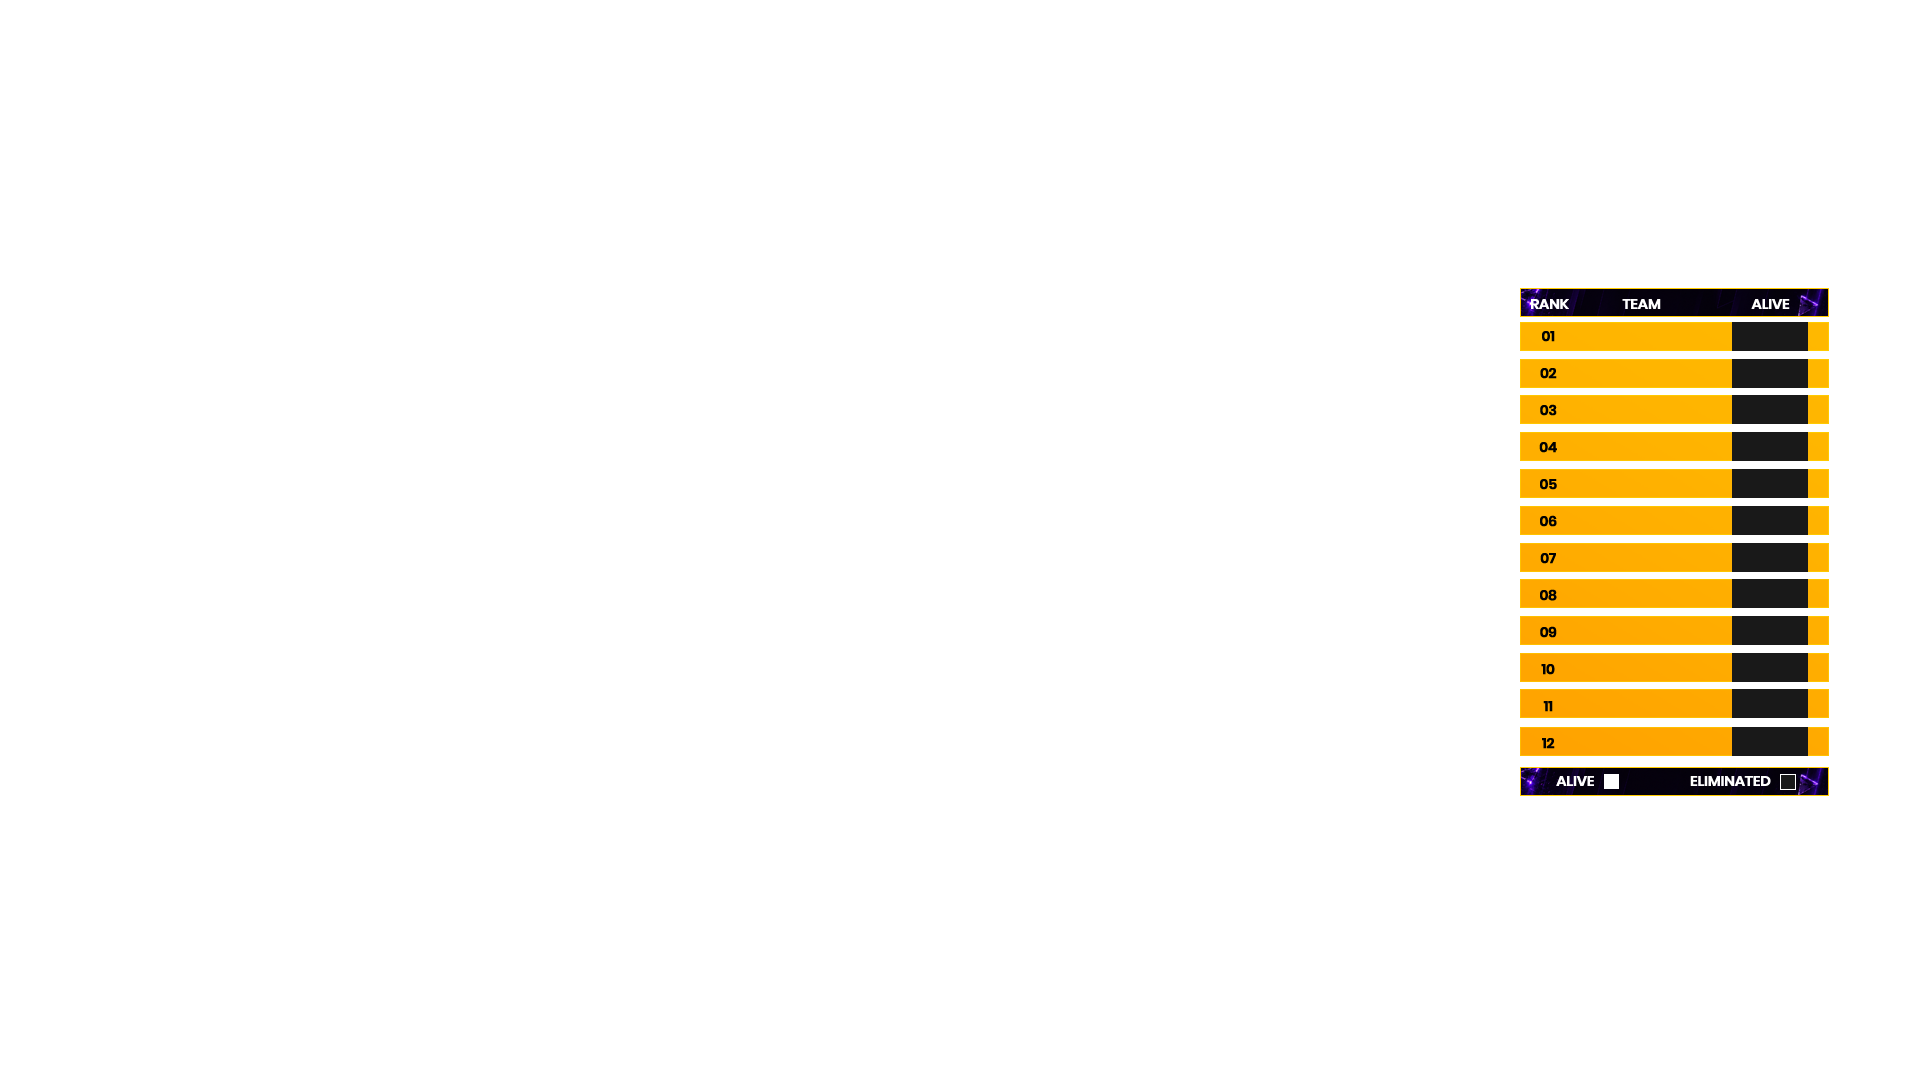
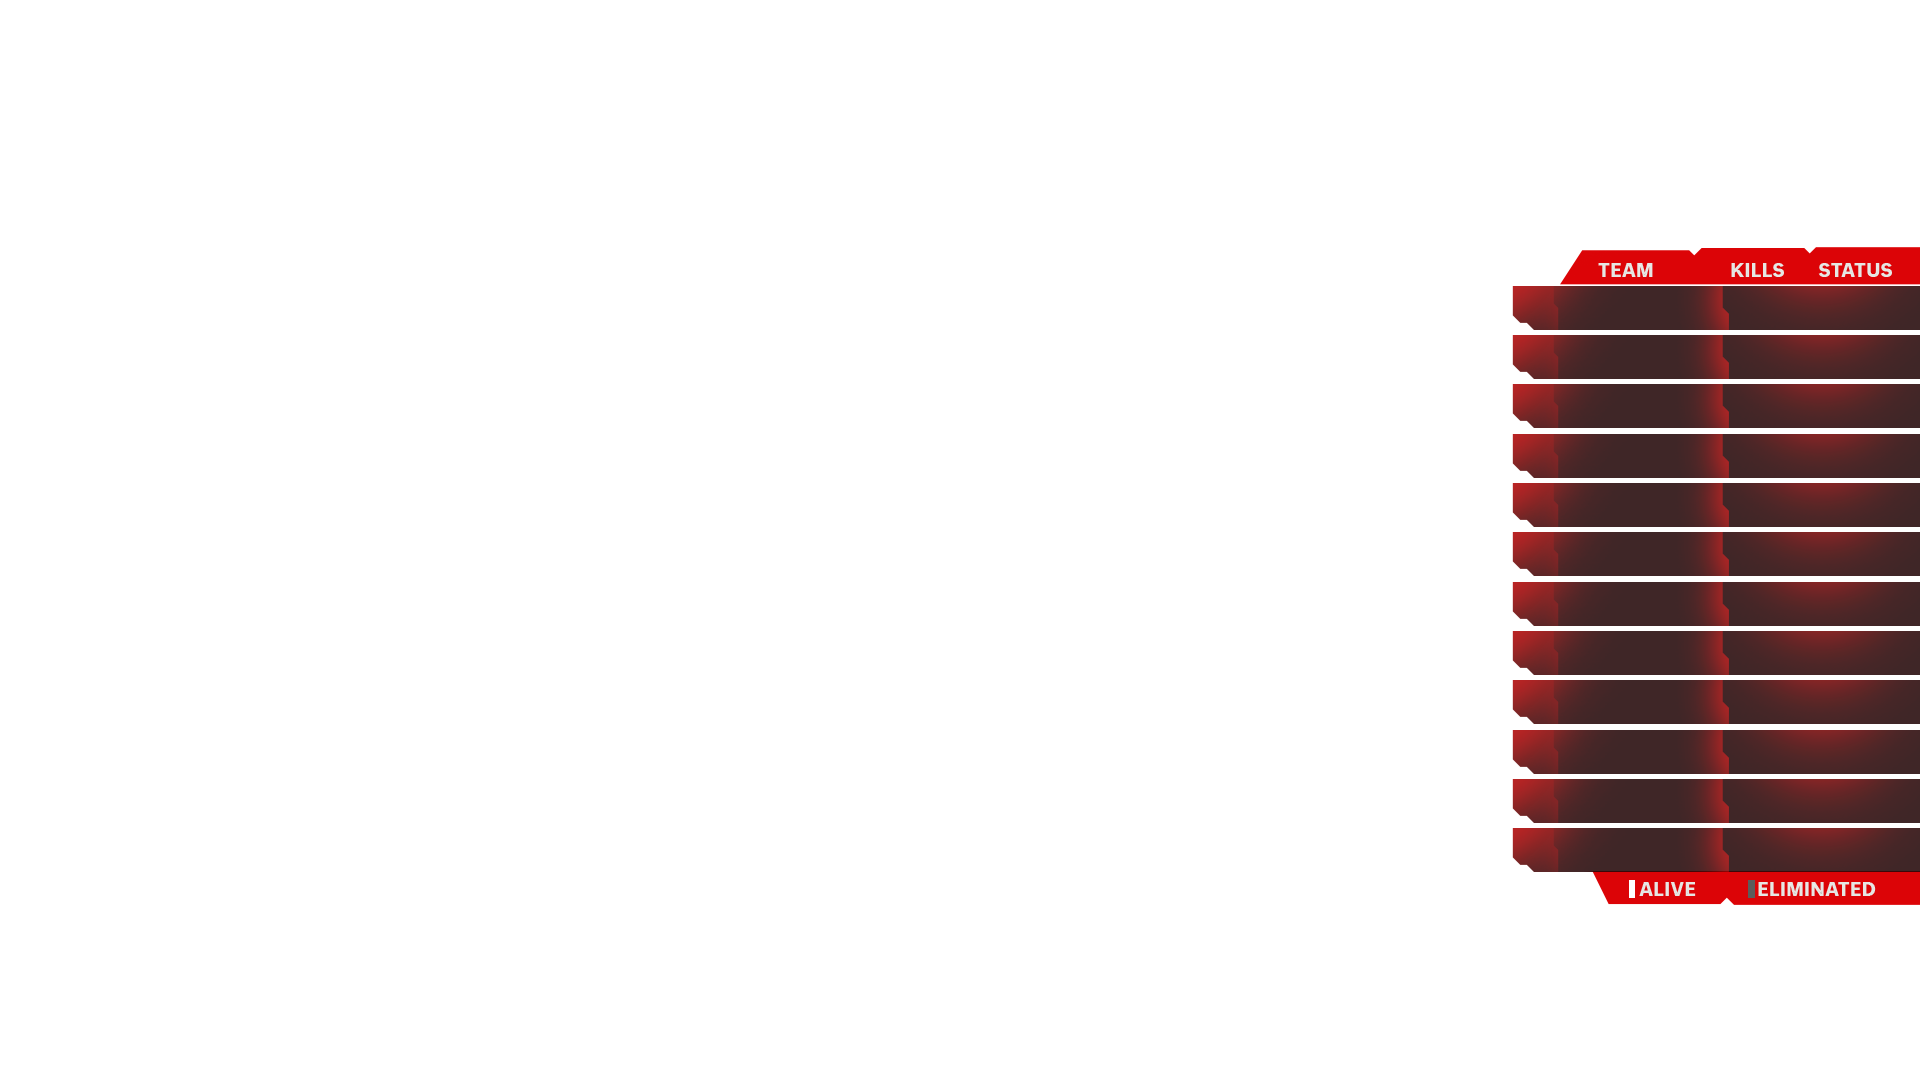
Free Fire: rebuild Alive Status on the new TEAM/KILLS/STATUS artwork
- Drop in the new ALIVE STATUS.png and re-measure every position from
  the PNG's own pixels rather than eyeballing: table at x 1512..1920,
  twelve 44px rows on a ~49px pitch, columns under the artwork's own
  TEAM / KILLS / STATUS headers.
- STATUS keeps the existing pip artwork (Dead.png / 1..4_alive.png)
  chosen by alive count, re-fitted to this design's narrower slot --
  the content-box crop is re-derived for the new 110x32 slot the same
  way the old 76x29 one was.
- Eliminated teams now SINK below every alive team instead of holding
  their slot, ordered by the placement link_live_teams() already
  computes, so a team out early ends up lowest and one just wiped sits
  right under the alive block -- the thing the game's own table
  doesn't do. Rows transition to their new slot rather than snapping,
  and a row flashes once on the alive->eliminated transition (tracked
  by comparing against the previous render, so it fires on the change
  and not on every sync).
- Team name/kills use Gotham per the graphic package, falling back to
  Arial; no @font-face, so it needs Gotham installed on the machine
  running the browser source (drop the file into assets/fonts and this
  can be bundled properly instead).
- Add four Graphic Fixing pages (Alive: Logo / Name / Kills / Status)
  so each column can be nudged independently, applied by the overlay
  per element class. The logo itself comes from the pre-event roster
  upload, same lookup the other graphics use.
[…]

Changed region(s): [[0.7812, 0.2139, 1.0, 0.8556]]

diff --git a/overlay/freefire_alive_status.html b/overlay/freefire_alive_status.html
@@ -7,34 +7,35 @@
   /* The 12-team live side table.
      ---------------------------------------------------------------
      Every number on this graphic comes from the game client's own
-     debugger log, not from OCR of the in-game table: team names from
-     OnTeamScoreInited, the running kill count from OnTeamScoreChanged,
-     deaths and revives from the kill/revive lines, and squad wipes from
-     PCInGameFlagManager -- which lands in the same millisecond as the
-     squad's last death. See freefire_engine.py's link_live_teams().
+     debugger log, not from OCR of the in-game table (or, once
+     calibrated, the alive grid's own colour/digit read -- see
+     link_live_teams()/apply_alive_grid_identities() in
+     freefire_engine.py; both feed liveOps.sidetableRows in the same
+     shape, so this page doesn't care which one supplied a given row).
 
-     Geometry is measured from the artwork (assets/freefire/<event>/
-     ALIVE STATUS.png), not eyeballed. At 1920x1080 the table occupies
-     x 1520..1828, with a header band, twelve 29px-tall rows on a ~36.8px
-     pitch, and a legend footer. Row tops are listed exactly as measured
-     rather than computed from a pitch, because the artwork's spacing is
-     not perfectly uniform and drift would show by row twelve. */
+     Geometry below is measured from the CURRENT artwork
+     (assets/freefire/<event>/ALIVE STATUS.png, the TEAM/KILLS/STATUS
+     design), not eyeballed -- sampled directly from the PNG's own
+     pixels. At 1920x1080 the table occupies x 1512..1920, a header
+     band, twelve 44px-tall rows on a ~49.3px pitch, and a legend
+     footer explaining the STATUS icon (this is the SAME icon set the
+     old design used -- Dead.png / 1_alive.png.. 4_alive.png -- just
+     moved to sit under the STATUS column instead of a dedicated ALIVE
+     column). Row tops are listed exactly as measured rather than
+     computed from a pitch, matching the old design's own reasoning:
+     the artwork's spacing is not perfectly uniform and drift would
+     show by row twelve.
 
-  @font-face {
-    font-family: 'TT Supermolot Neue Trial';
-    src: url('assets/fonts/TTSupermolotNeueTrial-ExtraBold.ttf') format('truetype');
-    font-weight: 800; font-style: normal;
-  }
-  @font-face {
-    font-family: 'TT Supermolot Neue Trial';
-    src: url('assets/fonts/TTSupermolotNeueTrial-Black.ttf') format('truetype');
-    font-weight: 900; font-style: normal;
-  }
+     Font is Gotham, per the graphic package -- not bundled here (no
+     @font-face): it's expected to already be installed on the
+     machine running the browser source, the same way a licensed font
+     normally reaches a design tool without redistributing the file.
+     Falls back to Arial if it isn't. */
 
   html, body {
     margin: 0; padding: 0; background: transparent; overflow: hidden;
     width: 1920px; height: 1080px;
-    font-family: 'TT Supermolot Neue Trial', Arial, sans-serif;
+    font-family: 'Gotham', Arial, sans-serif;
   }
 
   #stage { position: absolute; inset: 0; display: none; }
@@ -42,82 +43,72 @@
 
   #backdrop { position: absolute; inset: 0; width: 1920px; height: 1080px; }
 
-  .row { position: absolute; height: 29px; }
+  .row { position: absolute; height: 44px; left: 1512px; width: 408px; }
 
-  /* No rank element: 01..12 are already printed in the artwork, so a row
-     is ranked by which slot it occupies, not by anything drawn here.
-     (Drawing it too produced "0101" on the first pass.) */
+  /* No rank element: 01..12 are already printed in the artwork, so a
+     row is ranked by which slot it occupies, not by anything drawn
+     here. */
   .logo {
-    position: absolute; left: 1554px; width: 30px; height: 29px;
+    position: absolute; left: 8px; top: 0; width: 40px; height: 44px;
     display: flex; align-items: center; justify-content: center;
   }
-  .logo img { max-width: 26px; max-height: 25px; object-fit: contain; }
-  /* Narrowed from the full 142px gap up to the alive bars to make room
-     for a KILLS number -- the artwork itself has no column for this
-     (RANK / TEAM / ALIVE only), so it's fitted into the existing row
-     rather than waiting on updated art. */
+  .logo img { max-width: 34px; max-height: 34px; object-fit: contain; }
+
   .name {
-    position: absolute; left: 1588px; width: 106px; height: 29px;
+    position: absolute; left: 54px; top: 0; width: 150px; height: 44px;
     display: flex; align-items: center;
-    color: #1a1206; font-weight: 900; font-size: 15px; letter-spacing: 0.2px;
+    color: #f2e9e6; font-weight: 700; font-size: 17px; letter-spacing: 0.2px;
     text-transform: uppercase; white-space: nowrap; overflow: hidden;
   }
   .kills {
-    position: absolute; left: 1694px; width: 36px; height: 29px;
+    position: absolute; left: 208px; top: 0; width: 74px; height: 44px;
     display: flex; align-items: center; justify-content: center;
-    color: #1a1206; font-weight: 900; font-size: 15px;
+    color: #f2e9e6; font-weight: 800; font-size: 18px;
     font-variant-numeric: tabular-nums;
   }
-  /* One static label per column, not per row -- the header band the
-     artwork bakes in only says RANK / TEAM / ALIVE, so this is drawn to
-     match its style (white, bold, small) at the same x as the numbers
-     below it. */
-  #kills-header {
-    position: absolute; left: 1694px; top: 296px; width: 36px; height: 14px;
-    display: flex; align-items: center; justify-content: center;
-    color: #ffffff; font-weight: 800; font-size: 11px; letter-spacing: 0.5px;
-  }
 
-  /* The alive indicator is the supplied artwork, not bars drawn here --
-     0 alive uses Dead.png, 1..4 use N_alive.png. All five share one
-     content box (x 11..487, y 140..359 of a 500x500 canvas), so a single
-     crop maps any of them into the 76x29 dark slot: scale the 220px-tall
-     content to 29px (factor 0.13182), then offset so it sits centred. */
-  .alive {
-    position: absolute; left: 1732px; width: 76px; height: 29px;
+  /* The STATUS pip -- SAME artwork the old ALIVE column used
+     (Dead.png / N_alive.png), just re-fitted into this design's
+     narrower slot. All five share one content box (x 11..488,
+     y 140..360 of a 500x500 canvas), so one crop maps any of them in:
+     scale that 477x220 content box independently per axis to fill the
+     slot, then shift so its top-left lands at the slot's origin --
+     same technique the old design used, re-derived for this slot's
+     own size (110x32 here, was 76x29). */
+  .status-pip {
+    position: absolute; left: 292px; top: 6px; width: 110px; height: 32px;
     background-repeat: no-repeat;
-    /* Maps the artwork's content box onto the dark slot with a 4px inset,
-       stretching each axis independently -- the standalone indicator is
-       477x220 (2.17:1) while the slot is 76x29 (2.62:1), and preserving
-       the aspect would leave the bars floating in the middle of the slot
-       instead of filling it the way the reference table does. They are
-       plain rectangles, so the stretch is invisible.
-         scaleX = 68/477, scaleY = 21/220 -> 500px canvas becomes
-         71.3 x 47.7, shifted so content x11,y140 lands at the inset. */
-    background-size: 71.28px 47.73px;
-    background-position: 2.43px -9.36px;
-  }
-
-  /* Champion Rush emblem, sitting OUTSIDE the table to the left of the
-     team logo so it never crowds the name. Artwork comes from the selected
-     package as champion_rush.png; a package without one simply shows
-     nothing there. */
-  .cr-badge{
-    position: absolute; left: 1486px; width: 28px; height: 29px;
-    object-fit: contain;
+    background-size: 115.3px 72.75px;
+    background-position: -2.54px -20.36px;
   }
 
   /* A wiped squad's whole row dims, so "who is still in" reads at a
-     glance rather than needing the four little bars to be counted. */
+     glance rather than needing the pip alone to carry it. */
   .row.out .name { opacity: 0.55; }
   .row.out .logo img { filter: grayscale(1); opacity: 0.5; }
+
+  /* Plays once, the moment a row flips from alive to eliminated --
+     NOT on every render, just that one transition. A quick bright
+     sweep across the row (not the pip alone) is what reads as "this
+     just happened" on a broadcast; the permanent dim above is what
+     shows afterwards. */
+  @keyframes ff-elim-flash {
+    0%   { box-shadow: inset 0 0 0 999px rgba(220, 4, 7, 0); }
+    15%  { box-shadow: inset 0 0 0 999px rgba(220, 4, 7, 0.55); }
+    100% { box-shadow: inset 0 0 0 999px rgba(220, 4, 7, 0); }
+  }
+  .row.just-eliminated { animation: ff-elim-flash 900ms ease-out; }
+
+  /* Rows slide to their new slot instead of snapping -- an eliminated
+     team sinking below the alive block should read as a movement, not
+     a cut. */
+  .row { transition: top 550ms ease; }
 </style>
 </head>
 <body>
 
 <div id="stage">
   <img id="backdrop" alt="">
-  <div id="kills-header">K</div>
   <div id="rows"></div>
 </div>
 
@@ -132,7 +123,7 @@ const WS_URL = _relay
   : "ws://localhost:8765?page=freefire_alive_status";
 
 // Measured from ALIVE STATUS.png -- see the note at the top.
-const ROW_TOPS = [322, 359, 395, 432, 469, 506, 543, 579, 616, 653, 689, 727];
+const ROW_TOPS = [286, 335, 384, 434, 483, 532, 582, 631, 680, 730, 779, 828];
 
 let ws;
 function connect(){
@@ -156,22 +147,35 @@ function escapeHtml(s){
   ));
 }
 
-/* Rank order is the event standings when there are any, so the column
-   means the same thing here as on the points table. Before game one
-   there are no standings, so it falls back to the order the client
-   listed the teams -- stable, and never leaves the table blank. */
+/* Alive teams sort first (by the event standings, same as before --
+   falls back to log order pre-game-one). Eliminated teams sink BELOW
+   every alive team, ordered by their own placement -- link_live_teams()
+   already computes this the moment a squad is wiped (bigger number =
+   worse = sinks further), so a team eliminated early ends up lowest and
+   one eliminated just now sits right under the alive block, exactly
+   the behaviour the game's own table doesn't have. A row from a source
+   that doesn't carry placement (the alive grid, or the OCR fallback)
+   just keeps its existing relative order among other eliminated rows
+   instead of guessing one. */
 function orderRows(rows, standings){
   const rank = new Map();
   (standings || []).forEach((s, i) => {
     if(s && s.teamName) rank.set(s.teamName.trim().toUpperCase(), i);
   });
-  return rows.slice().sort((a, b) => {
-    const ra = rank.has((a.teamName||"").trim().toUpperCase())
-      ? rank.get((a.teamName||"").trim().toUpperCase()) : 500;
-    const rb = rank.has((b.teamName||"").trim().toUpperCase())
-      ? rank.get((b.teamName||"").trim().toUpperCase()) : 500;
-    return ra - rb;
-  });
+  const aliveRank = (r) => {
+    const key = (r.teamName||"").trim().toUpperCase();
+    return rank.has(key) ? rank.get(key) : 500;
+  };
+  return rows.map((r, i) => ({ r, i })).sort((A, B) => {
+    const a = A.r, b = B.r;
+    const aOut = !!a.eliminated, bOut = !!b.eliminated;
+    if(aOut !== bOut) return aOut ? 1 : -1;
+    if(!aOut) return aliveRank(a) - aliveRank(b);
+    if(a.placement != null && b.placement != null) return a.placement - b.placement;
+    if(a.placement != null) return -1;
+    if(b.placement != null) return 1;
+    return A.i - B.i;   // stable: keep original order when neither has one
+  }).map(x => x.r);
 }
 
 function logoFor(teamName, roster){
@@ -181,6 +185,11 @@ function logoFor(teamName, roster){
   return team || null;
 }
 
+// Team name -> was it eliminated on the LAST render? Used only to catch
+// the alive-to-eliminated transition for the flash animation -- see
+// apply() below. Deliberately module-level (survives across calls),
+// not per-row state, since a row's DOM element is rebuilt every render.
+let previouslyEliminated = new Set();
 let lastKey = "";
 
 function apply(state){
@@ -204,40 +213,69 @@ function apply(state){
     : new Set();
 
   const key = base + "|" + rows.map(r =>
-    [r.teamName, r.aliveCount, r.eliminated, r.elims,
+    [r.teamName, r.aliveCount, r.eliminated, r.elims, r.placement,
      active.has((r.teamName || "").trim().toUpperCase())].join("~")).join("|");
   if(key === lastKey) return;
   lastKey = key;
 
+  const nowEliminated = new Set();
   const html = rows.slice(0, 12).map((row, i) => {
     const team = logoFor(row.teamName, state.roster);
     const label = (team && team.shortName) || row.teamName || "";
+    const nameKey = (row.teamName || "").trim().toUpperCase();
     // aliveCount is null when the squad could not be linked to the roster
     // (that link is what turns the client's squad number into a team).
-    // Showing the full four bars would be a confident lie, so an unknown
-    // count falls back to the empty indicator.
+    // Showing a full-alive pip would be a confident lie, so an unknown
+    // count falls back to the empty/dead indicator.
     const alive = row.eliminated ? 0
       : (row.aliveCount == null ? 0 : Math.max(0, Math.min(4, row.aliveCount)));
     const art = alive === 0 ? "Dead.png" : alive + "_alive.png";
     const logo = team && team.logo
       ? `<img src="${escapeHtml(team.logo)}" alt="">` : "";
-    const badge = active.has((row.teamName || "").trim().toUpperCase())
-      ? `<img class="cr-badge" src="${base}champion_rush.png" alt="">` : "";
     // elims is null once the match has ended (the running score gets
     // placement points folded in at that point and would read as an
     // inflated "kills" number), so a blank cell beats a confidently wrong
     // one -- same rule the rest of this codebase already follows.
     const kills = row.elims == null ? "" : row.elims;
+    if(row.eliminated) nowEliminated.add(nameKey);
+    const justNow = row.eliminated && !previouslyEliminated.has(nameKey);
     return `
-      <div class="row ${row.eliminated ? "out" : ""}" style="top:${ROW_TOPS[i]}px">
-        ${badge}
+      <div class="row ${row.eliminated ? "out" : ""} ${justNow ? "just-eliminated" : ""}" style="top:${ROW_TOPS[i]}px">
         <div class="logo">${logo}</div>
         <div class="name">${escapeHtml(label)}</div>
         <div class="kills">${kills}</div>
-        <div class="alive" style="background-image:url('${base}${art}')"></div>
+        <div class="status-pip" style="background-image:url('${base}${art}')"></div>
       </div>`;
   }).join("");
   document.getElementById("rows").innerHTML = html;
+  applyElementOverrides(state);
+  previouslyEliminated = nowEliminated;
+}
+
+/* Per-element nudges from the dashboard's Graphic Fixing tab (Alive:
+   Logo / Name / Kills / Status). Each is one {dx, dy, scale} applied on
+   top of the element's own CSS position -- every row shares the offset,
+   since the whole point is lining a COLUMN up with the artwork, not
+   moving one row independently. Same transform trick the scoreboard and
+   points table already use for their logo columns. */
+const OVERRIDE_TARGETS = {
+  aliveStatusLogo: ".logo",
+  aliveStatusName: ".name",
+  aliveStatusKills: ".kills",
+  aliveStatusPip: ".status-pip",
+};
+
+function applyElementOverrides(state){
+  const all = state.graphicOverrides || {};
+  Object.entries(OVERRIDE_TARGETS).forEach(([key, selector]) => {
+    const o = all[key] || {};
+    const dx = o.dx || 0, dy = o.dy || 0, scale = o.scale || 1;
+    if(!dx && !dy && scale === 1) return;
+    document.querySelectorAll("#rows " + selector).forEach(el => {
+      el.style.transform = `translate(${dx}px, ${dy}px) scale(${scale})`;
+      el.style.transformOrigin = "left center";
+    });
+  });
 }
 
 connect();

diff --git a/dashboard/dashboard.html b/dashboard/dashboard.html
@@ -2183,6 +2183,10 @@ Team Charlie
       <div class="row" style="gap:8px;margin-bottom:10px;">
         <button class="secondary" id="ffgfx_page_pointsTableLogo">Overall Points Table</button>
         <button class="secondary" id="ffgfx_page_scoreboardLogo">Match Scoreboard</button>
+        <button class="secondary" id="ffgfx_page_aliveStatusLogo">Alive: Logo</button>
+        <button class="secondary" id="ffgfx_page_aliveStatusName">Alive: Name</button>
+        <button class="secondary" id="ffgfx_page_aliveStatusKills">Alive: Kills</button>
+        <button class="secondary" id="ffgfx_page_aliveStatusPip">Alive: Status</button>
       </div>
       <div id="ffgfx_stage_wrap" style="position:relative;width:960px;height:540px;
            background:#000;border:1px solid #2b3348;border-radius:8px;overflow:hidden;">
@@ -7148,6 +7152,25 @@ function ffgfxSbPositions(){
   return FFGFX_SB_ROW_CENTRE.map(cy => ({ left: FFGFX_SB_NAME_X + 6, top: cy }));
 }
 
+/* Alive Status (the TEAM/KILLS/STATUS design). Unlike the two graphics
+   above -- which only ever need their logo column nudged -- this one has
+   four separately-placed things per row, so it gets four pages rather
+   than one: each saves its own graphicOverrides entry, and
+   freefire_alive_status.html applies each to its own element class. The
+   numbers mirror that page's own CSS exactly (row left 1512, ROW_TOPS,
+   44px rows), so what's dragged here lines up with what renders. */
+const FFGFX_AS_ROW_LEFT = 1512;
+const FFGFX_AS_ROW_TOPS = [286, 335, 384, 434, 483, 532, 582, 631, 680, 730, 779, 828];
+const FFGFX_AS_ELEMENTS = {
+  aliveStatusLogo:   { label: "Alive Status — Logo",   dx: 8,   size: 40 },
+  aliveStatusName:   { label: "Alive Status — Name",   dx: 54,  size: 44 },
+  aliveStatusKills:  { label: "Alive Status — Kills",  dx: 208, size: 40 },
+  aliveStatusPip:    { label: "Alive Status — Status", dx: 292, size: 44 },
+};
+function ffgfxAsPositions(offsetX){
+  return FFGFX_AS_ROW_TOPS.map(top => ({ left: FFGFX_AS_ROW_LEFT + offsetX, top: top + 22 }));
+}
+
 const FFGFX_PAGES = {
   pointsTableLogo: {
     label: "Overall Points Table",
@@ -7166,6 +7189,16 @@ const FFGFX_PAGES = {
     positions: ffgfxSbPositions(),
   },
 };
+
+Object.entries(FFGFX_AS_ELEMENTS).forEach(([key, el]) => {
+  FFGFX_PAGES[key] = {
+    label: el.label,
+    bg: () => "../overlay/assets/freefire/" +
+      ((ffState && ffState.event && ffState.event.assetFolder) || "CLT") + "/ALIVE STATUS.png",
+    size: el.size,
+    positions: ffgfxAsPositions(el.dx),
+  };
+});
 let ffgfxCurrentPage = "pointsTableLogo";
 let ffgfxPending = { dx: 0, dy: 0, scale: 1 };
 
